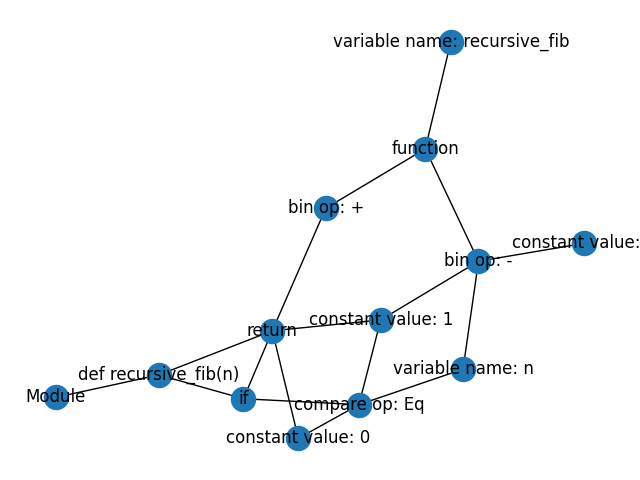
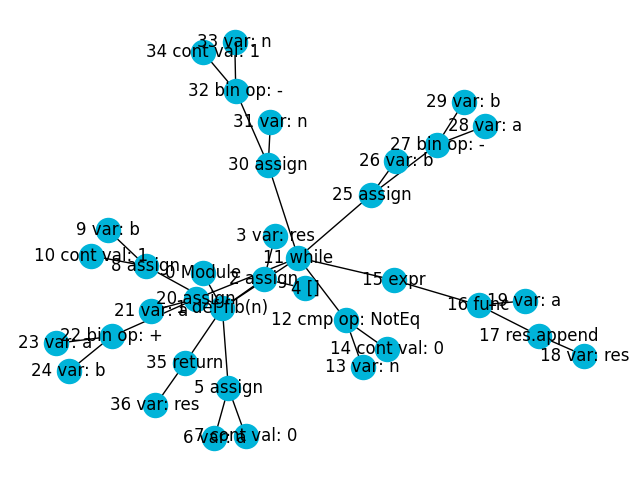
Fix

diff --git a/hw_1/main.py b/hw_1/main.py
@@ -1,4 +1,3 @@
-import _ast
 import ast
 import inspect
 
@@ -6,44 +5,52 @@ import matplotlib.pyplot as plt
 import networkx as nx
 
 
-def recursive_fib(n):
-    if n == 0:
-        return 0
-    if n == 1:
-        return 1
-    return recursive_fib(n - 1) + recursive_fib(n - 2)
+def fib(n):
+    res = []
+    a = 0
+    b = 1
+    while n != 0:
+        res.append(a)
+        a = a + b
+        b = a - b
+        n = n - 1
+    return res
 
 
-fib_rec = ast.parse(inspect.getsource(recursive_fib))
+fib_rec = ast.parse(inspect.getsource(fib))
 
 
 def str_node(node):
-    if isinstance(node, ast.AST):
-        if isinstance(node, ast.Module):
-            return node.__class__.__name__
-        if isinstance(node, ast.FunctionDef):
-            args = node.__dict__['args'].__dict__['args']
-            return 'def ' + node.name + '(' + ', '.join('%s' % ast.unparse(arg) for arg in args) + ')'
-        if isinstance(node, ast.Compare):
-            res = 'compare'
-            res += ' op: ' + node.__dict__['ops'][0].__class__.__name__
-            return res
-        if isinstance(node, ast.Name):
-            return 'variable name: ' + ast.unparse(node)
-        if isinstance(node, ast.Constant):
-            return 'constant value: ' + ast.unparse(node)
-        if isinstance(node, ast.If):
-            return 'if'
-        if isinstance(node, ast.Return):
-            return 'return'
-        if isinstance(node, ast.BinOp):
-            bin_op = node.op.__class__.__name__
-            op = '+' if bin_op == 'Add' else '-'
-            return 'bin op: ' + op
-        if isinstance(node, ast.Call):
-            return 'function'
-    else:
-        return repr(node)
+    if isinstance(node, ast.Module):
+        return node.__class__.__name__
+    if isinstance(node, ast.FunctionDef):
+        args = node.__dict__['args'].__dict__['args']
+        return 'def ' + node.name + '(' + ', '.join('%s' % ast.unparse(arg) for arg in args) + ')'
+    if isinstance(node, ast.Compare):
+        res = 'cmp'
+        res += ' op: ' + node.__dict__['ops'][0].__class__.__name__
+        return res
+    if isinstance(node, ast.Name):
+        return 'var: ' + ast.unparse(node)
+    if isinstance(node, ast.Constant):
+        return 'cont val: ' + ast.unparse(node)
+    if isinstance(node, ast.If):
+        return 'if'
+    if isinstance(node, ast.Return):
+        return 'return'
+    if isinstance(node, ast.BinOp):
+        bin_op = node.op.__class__.__name__
+        op = '+' if bin_op == 'Add' else '-'
+        return 'bin op: ' + op
+    if isinstance(node, ast.Call):
+        return 'func'
+    if isinstance(node, ast.Assign):
+        return 'assign'
+    if isinstance(node, ast.While):
+        return 'while'
+    if isinstance(node, ast.Expr):
+        return 'expr'
+    return ast.unparse(node)
 
 
 graph = nx.Graph()
@@ -51,11 +58,16 @@ graph = nx.Graph()
 
 def check(value):
     return isinstance(value, ast.Sub) or isinstance(value, ast.Load) or isinstance(value, ast.arguments) or \
-           isinstance(value, _ast.cmpop) or isinstance(value, _ast.operator)
+           isinstance(value, ast.cmpop) or isinstance(value, ast.operator) or isinstance(value, ast.Store)
+
+
+count = 0
 
 
 def ast_visit(node):
-    str_of_node = str_node(node)
+    global count
+    str_of_node = str(count) + ' ' + str_node(node)
+    count += 1
 
     graph.add_node(str_of_node)
 
@@ -75,5 +87,5 @@ def ast_visit(node):
 
 ast_visit(fib_rec)
 
-nx.draw(graph, with_labels=True)
+nx.draw(graph, with_labels=True, node_color='#00b4d9')
 plt.show()
